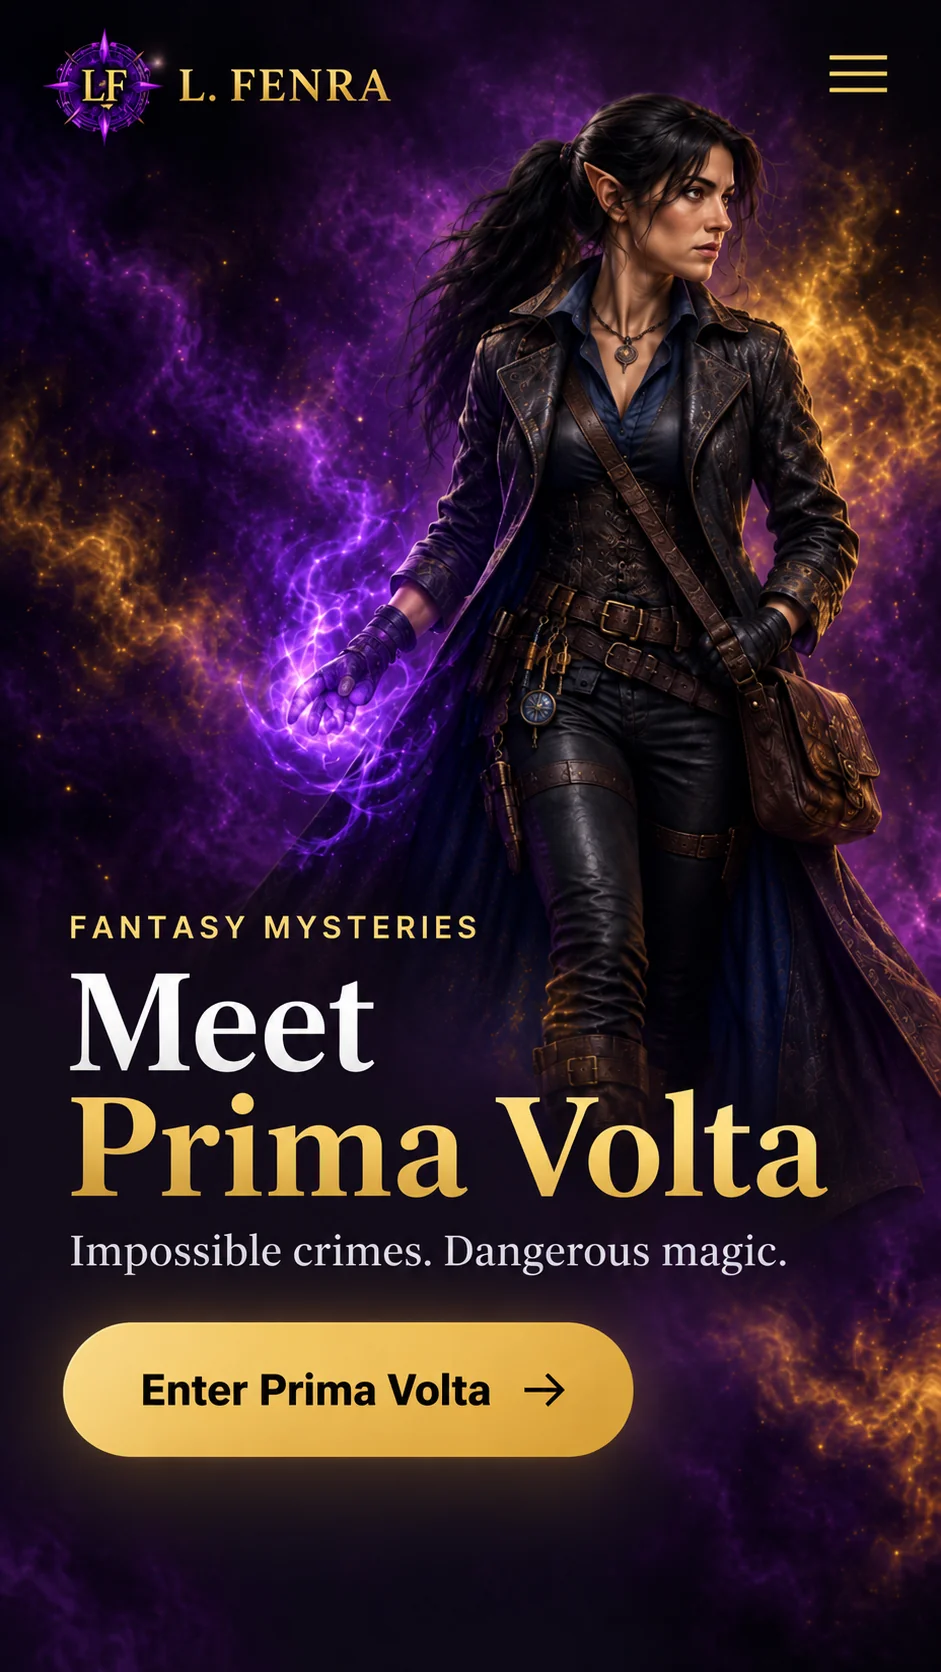
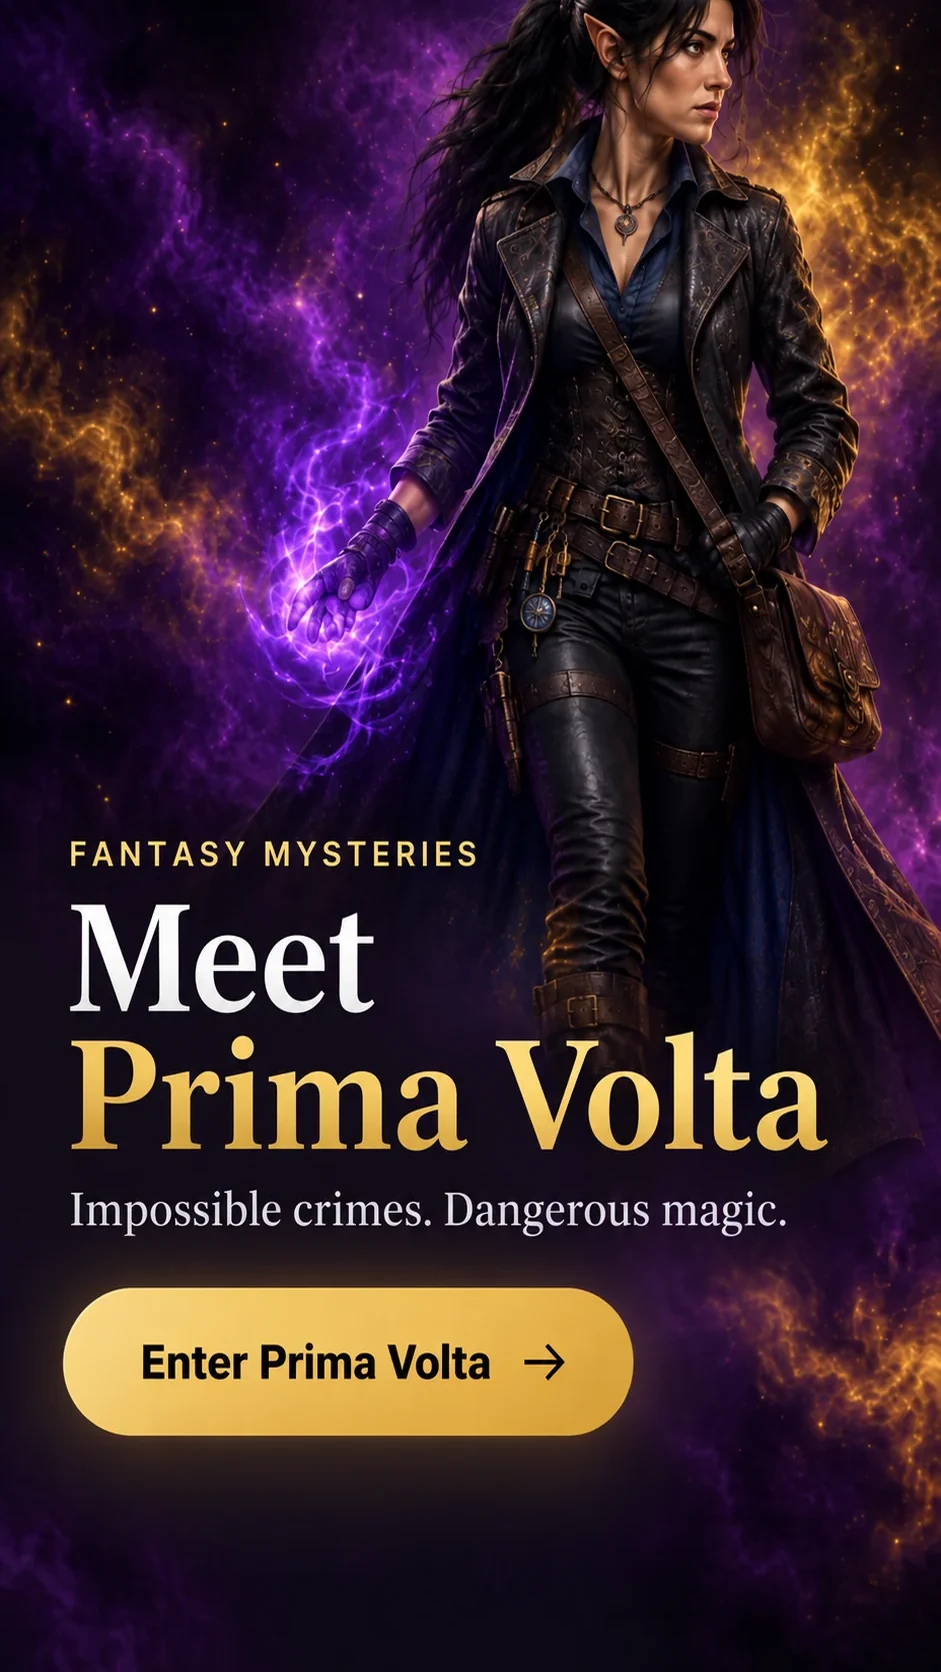
Add files via upload

diff --git a/index.html b/index.html
@@ -10,7 +10,7 @@
 :root{--ink:#f7f3ec;--muted:#c8c3cd;--gold:#e2c477;--violet:#9b5cff;--blue:#35b9ff;--yellow:#ffd34e;--max:1180px}
 *{box-sizing:border-box}html{scroll-behavior:smooth}body{margin:0;min-height:100vh;color:var(--ink);font-family:Inter,ui-sans-serif,system-ui,-apple-system,BlinkMacSystemFont,"Segoe UI",sans-serif;background:radial-gradient(circle at 18% 25%,rgba(133,66,208,.18),transparent 27rem),radial-gradient(circle at 82% 30%,rgba(39,171,255,.15),transparent 27rem),linear-gradient(180deg,#07080c,#0c1018 60%,#08090d);overflow-x:hidden}
 body:before{content:"";position:fixed;inset:0;pointer-events:none;opacity:.12;background-image:linear-gradient(rgba(255,255,255,.035) 1px,transparent 1px),linear-gradient(90deg,rgba(255,255,255,.025) 1px,transparent 1px);background-size:40px 40px}
-a{color:inherit}.header{height:76px;display:flex;align-items:center;justify-content:space-between;width:min(var(--max),calc(100% - 44px));margin:auto;position:relative}.brand{text-decoration:none;display:flex;align-items:center}.brand-logo{display:block;height:58px;width:auto;max-width:260px}.nav{display:flex;gap:22px}.nav a{text-decoration:none;color:#d7d2da;font-size:14px}.nav a:hover,.nav a.current{color:white}.nav a.current{color:var(--gold)}.menu-toggle{display:none;width:52px;height:52px;border:1px solid rgba(255,255,255,.14);border-radius:14px;background:rgba(15,17,24,.9);padding:0;align-items:center;justify-content:center;cursor:pointer;box-shadow:0 10px 24px rgba(0,0,0,.26)}.menu-toggle span{display:block;width:22px;height:2px;border-radius:999px;background:var(--gold);margin:4px 0}
+a{color:inherit}.header{height:76px;display:flex;align-items:center;justify-content:space-between;width:min(var(--max),calc(100% - 44px));margin:auto;position:relative}.brand{text-decoration:none;display:flex;align-items:center}.brand-logo{display:block;height:58px;width:auto;max-width:260px}.nav{display:flex;gap:22px}.nav a{text-decoration:none;color:#d7d2da;font-size:14px}.nav a:hover,.nav a.current{color:white}.nav a.current{color:var(--gold)}.menu-toggle{display:none;width:52px;height:52px;border:1px solid rgba(255,255,255,.14);border-radius:14px;background:rgba(15,17,24,.9);padding:0;align-items:center;justify-content:center;flex-direction:column;gap:4px;cursor:pointer;box-shadow:0 10px 24px rgba(0,0,0,.26)}.menu-toggle span{display:block;width:22px;height:2px;border-radius:999px;background:var(--gold);margin:0}
 .hero{width:min(var(--max),calc(100% - 44px));margin:0 auto;padding:72px 0 42px;text-align:center}.eyebrow{margin:0 0 15px;font-size:12px;font-weight:900;letter-spacing:.22em;color:var(--gold)}h1{font-family:Georgia,"Times New Roman",serif;font-weight:500;font-size:clamp(48px,7vw,88px);line-height:.98;margin:0}.intro{max-width:760px;margin:24px auto 0;color:var(--muted);font-size:18px}
 
 .worlds{
@@ -163,23 +163,23 @@ footer{width:min(var(--max),calc(100% - 44px));margin:auto;padding:32px 0 45px;b
   .nav a{font-size:14px}
   .hero{padding-top:50px}
   .worlds{grid-template-columns:1fr;gap:18px}
-  .world{min-height:0;aspect-ratio:4 / 5}
+  .world{min-height:650px;aspect-ratio:auto}
   .world::after{content:"";position:absolute;inset:0;z-index:2;pointer-events:none;background:linear-gradient(180deg,rgba(6,8,12,.06) 22%,rgba(6,8,12,.36) 48%,rgba(6,8,12,.90) 100%)}
   .prima-responsive,.world-art,.kelp-art-wrap{position:absolute;inset:0}
   .prima-responsive{display:block}
   .prima-art,.kelp-art{width:100%;height:100%;object-fit:cover;transform:none;filter:none}
   .prima-art{object-position:center 12%}
   .kelp-art-wrap{width:100%;height:100%;opacity:.98;-webkit-mask-image:none;mask-image:none}
-  .kelp-art{object-position:center 10%}
-  .world-copy{width:100%;min-height:100%;padding:28px;padding-top:58%;position:relative;z-index:3}
+  .kelp-art{object-position:center 8%}
+  .world-copy{width:100%;min-height:100%;padding:28px;padding-top:54%;position:relative;z-index:3;display:flex;flex-direction:column}
   .world h2{font-size:clamp(38px,12vw,54px)}
   footer{flex-direction:column}
 }
 @media(max-width:430px){
   .worlds{width:min(var(--max),calc(100% - 28px));gap:18px}
-  .world{aspect-ratio:4 / 5}
-  .world-copy{padding:24px;padding-top:57%}
-  .world p{font-size:15px}
+  .world{min-height:620px;aspect-ratio:auto}
+  .world-copy{padding:24px;padding-top:52%}
+  .world p{font-size:15px;line-height:1.4}
   .menu-toggle{width:48px;height:48px;border-radius:13px}
 }
 

diff --git a/kelp-redder.html b/kelp-redder.html
@@ -9,7 +9,7 @@
 <style>
 :root{--night:#06101a;--panel:#0d2030;--ink:#f5f7f8;--muted:#bed0db;--yellow:#ffc928;--yellow2:#ffe37d;--blue:#21a9ff;--blue2:#7ad5ff;--green:#8bd63c;--line:rgba(122,213,255,.22);--max:1180px;--radius:24px}
 *{box-sizing:border-box}html{scroll-behavior:smooth}body{margin:0;color:var(--ink);background:radial-gradient(circle at 82% 12%,rgba(33,169,255,.16),transparent 26rem),radial-gradient(circle at 13% 45%,rgba(139,214,60,.08),transparent 24rem),linear-gradient(180deg,#050d15 0%,#0a1824 48%,#06101a 100%);font-family:Inter,ui-sans-serif,system-ui,-apple-system,BlinkMacSystemFont,"Segoe UI",sans-serif;line-height:1.6;overflow-x:hidden}body:before{content:"";position:fixed;inset:0;pointer-events:none;opacity:.14;background-image:linear-gradient(rgba(255,255,255,.025) 1px,transparent 1px),linear-gradient(90deg,rgba(255,255,255,.018) 1px,transparent 1px);background-size:36px 36px}a{color:inherit}
-.site-header{position:sticky;top:0;z-index:50;height:72px;display:flex;align-items:center;justify-content:space-between;padding:0 max(22px,calc((100vw - var(--max))/2));background:rgba(4,12,20,.9);backdrop-filter:blur(18px);border-bottom:1px solid var(--line);position:sticky}.brand{display:flex;align-items:center;text-decoration:none}.brand-logo{display:block;height:56px;width:auto;max-width:255px}.nav{display:flex;gap:25px}.nav a{text-decoration:none;color:#d6e3ea;font-size:14px}.nav a:hover,.nav a.current{color:var(--yellow)}.menu-toggle{display:none;width:52px;height:52px;border:1px solid rgba(122,213,255,.24);border-radius:14px;background:rgba(7,19,31,.92);padding:0;align-items:center;justify-content:center;cursor:pointer;box-shadow:0 10px 24px rgba(0,0,0,.26)}.menu-toggle span{display:block;width:22px;height:2px;border-radius:999px;background:var(--yellow);margin:4px 0}
+.site-header{position:sticky;top:0;z-index:50;height:72px;display:flex;align-items:center;justify-content:space-between;padding:0 max(22px,calc((100vw - var(--max))/2));background:rgba(4,12,20,.9);backdrop-filter:blur(18px);border-bottom:1px solid var(--line);position:sticky}.brand{display:flex;align-items:center;text-decoration:none}.brand-logo{display:block;height:56px;width:auto;max-width:255px}.nav{display:flex;gap:25px}.nav a{text-decoration:none;color:#d6e3ea;font-size:14px}.nav a:hover,.nav a.current{color:var(--yellow)}.menu-toggle{display:none;width:52px;height:52px;border:1px solid rgba(122,213,255,.24);border-radius:14px;background:rgba(7,19,31,.92);padding:0;align-items:center;justify-content:center;flex-direction:column;gap:4px;cursor:pointer;box-shadow:0 10px 24px rgba(0,0,0,.26)}.menu-toggle span{display:block;width:22px;height:2px;border-radius:999px;background:var(--yellow);margin:0}
 
 .goblin-peek{position:fixed;top:38vh;z-index:40;width:clamp(190px,22vw,260px);aspect-ratio:232/311;pointer-events:none;opacity:0;visibility:hidden;filter:drop-shadow(0 16px 30px rgba(0,0,0,.4));transition:opacity .18s ease;will-change:opacity,top,left,right}.goblin-peek .goblin-sprite{width:100%;height:100%;display:block;background-image:url('goblin-sprite-sheet.png');background-repeat:no-repeat;background-size:100% 6400%;background-position:0 0}.goblin-peek.side-right{right:-38px;left:auto}.goblin-peek.side-left{left:-38px;right:auto}.goblin-peek.side-left .goblin-sprite{transform:scaleX(-1);transform-origin:center}.goblin-peek.playing{opacity:1;visibility:visible}@media(max-width:1024px){.goblin-peek{width:clamp(180px,22vw,235px)}}@media(max-width:720px){.goblin-peek{width:clamp(150px,32vw,190px)}.goblin-peek.side-right{right:-28px}.goblin-peek.side-left{left:-28px}}@media(prefers-reduced-motion:reduce){.goblin-peek{display:none!important}}
 

diff --git a/prima-volta.html b/prima-volta.html
@@ -505,8 +505,8 @@ footer{
 .footer-links a:hover{color:var(--gold2)}
 .status,.view-link{display:none!important}
 .mobile-header,.mobile-hero{display:none}
-.menu-toggle{display:none;width:52px;height:52px;border:1px solid rgba(216,182,107,.24);border-radius:14px;background:rgba(10,7,14,.92);padding:0;align-items:center;justify-content:center;cursor:pointer;box-shadow:0 10px 24px rgba(0,0,0,.26)}
-.menu-toggle span{display:block;width:22px;height:2px;border-radius:999px;background:var(--gold2);margin:4px 0}
+.menu-toggle{display:none;width:52px;height:52px;border:1px solid rgba(216,182,107,.24);border-radius:14px;background:rgba(10,7,14,.92);padding:0;align-items:center;justify-content:center;flex-direction:column;gap:4px;cursor:pointer;box-shadow:0 10px 24px rgba(0,0,0,.26)}
+.menu-toggle span{display:block;width:22px;height:2px;border-radius:999px;background:var(--gold2);margin:0}
 
 @media(max-width:900px){
   .detail-card{grid-template-columns:125px 1fr}
@@ -530,12 +530,12 @@ footer{
   .mobile-header .nav a{font-size:14px;text-decoration:none;color:#d7d2da}
   .mobile-header .nav a.current{color:var(--gold2)}
   .mobile-hero{display:block;width:100%;overflow:hidden}
-  .mobile-hero img{display:block;width:100%;height:560px;object-fit:cover;object-position:center 18%}
+  .mobile-hero img{display:block;width:100%;height:560px;object-fit:cover;object-position:center 22%}
   .hero-wrap{display:none}
 }
 @media(max-width:430px){
   .mobile-header .menu-toggle{width:48px;height:48px;border-radius:13px}
-  .mobile-hero img{height:500px;object-position:center 16%}
+  .mobile-hero img{height:500px;object-position:center 20%}
   /* Fit the complete dramatic Prima artwork to the phone screen.
      Do not force a desktop-sized crop. */
   .hero-wrap{
